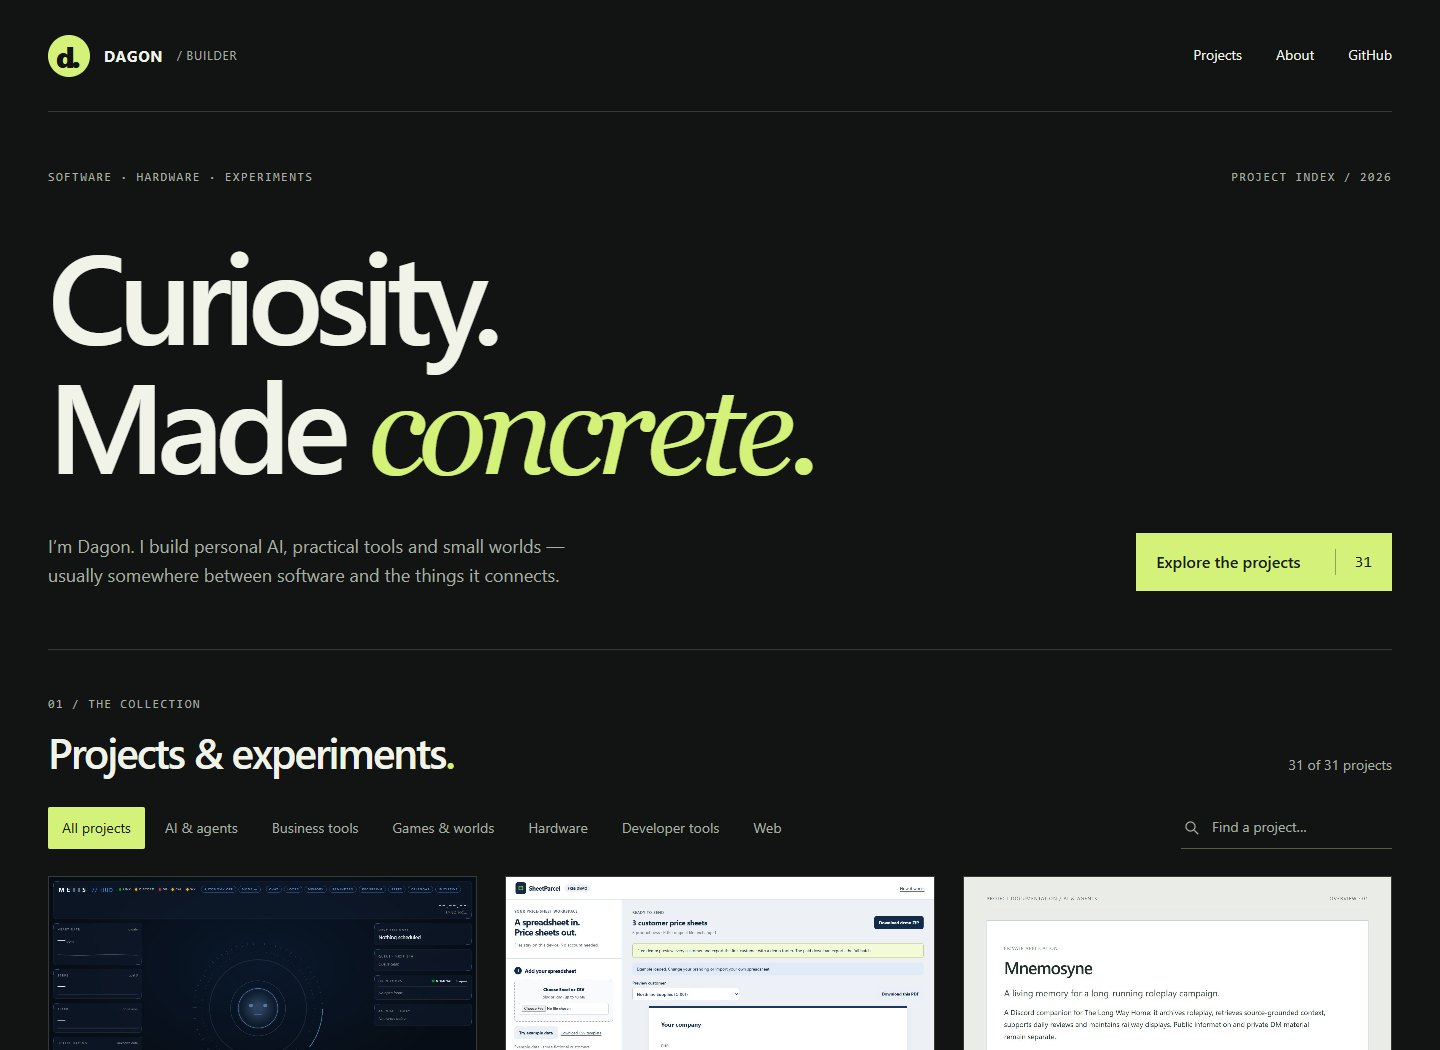
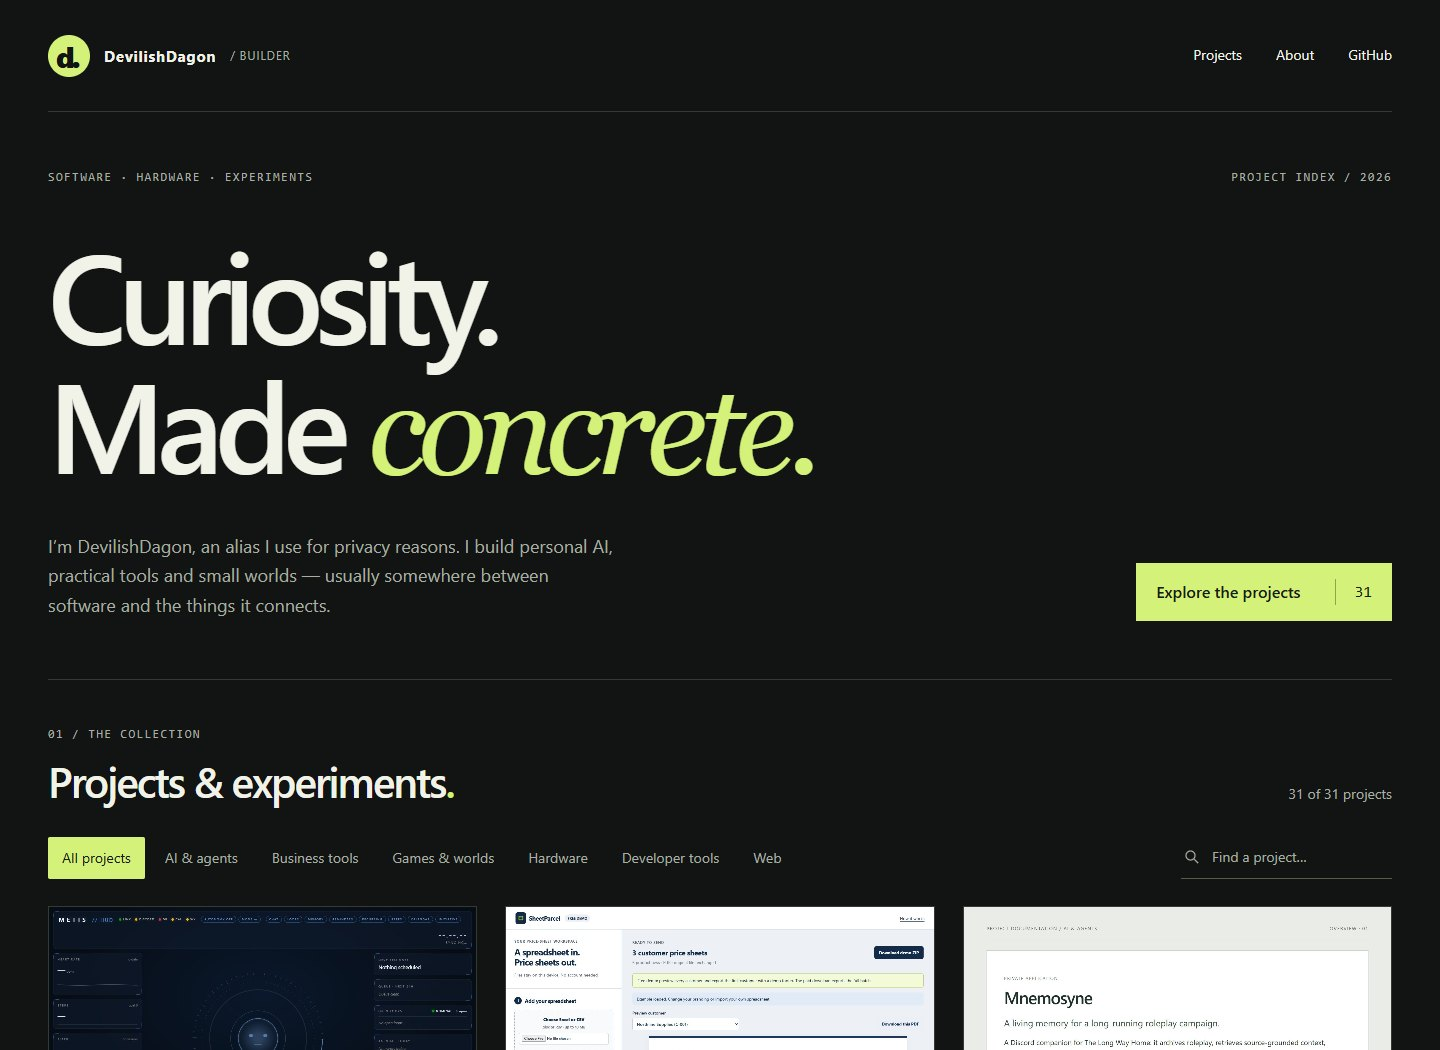
Use DevilishDagon alias and explain privacy choice

diff --git a/index.html b/index.html
@@ -4,11 +4,11 @@
   <meta charset="utf-8">
   <meta name="viewport" content="width=device-width, initial-scale=1">
   <meta name="theme-color" content="#111412">
-  <meta name="description" content="Dagon's project portfolio: personal AI, practical software, industrial automation, hardware and games. Explore descriptions and project captures.">
-  <meta property="og:title" content="Dagon — Projects & experiments">
-  <meta property="og:description" content="A collection of software, systems and things built out of curiosity.">
+  <meta name="description" content="DevilishDagon's project portfolio: personal AI, practical software, industrial automation, hardware and games. DevilishDagon is an alias used for privacy reasons.">
+  <meta property="og:title" content="DevilishDagon — Projects & experiments">
+  <meta property="og:description" content="Software, systems and things built out of curiosity by DevilishDagon, an alias used for privacy reasons.">
   <meta property="og:type" content="website">
-  <title>Dagon — Projects & experiments</title>
+  <title>DevilishDagon — Projects & experiments</title>
   <link rel="icon" type="image/svg+xml" href="assets/favicon.svg">
   <link rel="stylesheet" href="style.css">
   <script src="app.js" defer></script>
@@ -16,14 +16,14 @@
 <body>
   <a class="skip" href="#projects">Skip to projects</a>
   <header class="site-header shell">
-    <a class="wordmark" href="#top" aria-label="Dagon home"><span class="mark" aria-hidden="true">d.</span> DAGON<span class="wordmark-note"> / BUILDER</span></a>
+    <a class="wordmark" href="#top" aria-label="DevilishDagon home"><span class="mark" aria-hidden="true">d.</span> DevilishDagon<span class="wordmark-note"> / BUILDER</span></a>
     <nav aria-label="Main navigation"><a href="#projects">Projects</a><a href="#about">About</a><a href="https://github.com/DevilishDagon">GitHub</a></nav>
   </header>
   <main id="top">
     <section class="hero shell" aria-labelledby="intro-title">
       <div class="eyebrow"><span>SOFTWARE · HARDWARE · EXPERIMENTS</span><span class="edition">PROJECT INDEX / 2026</span></div>
       <h1 id="intro-title">Curiosity.<br>Made <em>concrete.</em></h1>
-      <div class="hero-bottom"><p>I’m Dagon. I build personal AI, practical tools and small worlds — usually somewhere between software and the things it connects.</p><a class="primary-link" href="#projects">Explore the projects <span id="hero-count"></span></a></div>
+      <div class="hero-bottom"><p>I’m DevilishDagon, an alias I use for privacy reasons. I build personal AI, practical tools and small worlds — usually somewhere between software and the things it connects.</p><a class="primary-link" href="#projects">Explore the projects <span id="hero-count"></span></a></div>
     </section>
     <section class="work-section shell" id="projects" aria-labelledby="work-title">
       <div class="section-heading"><div><span class="eyebrow">01 / THE COLLECTION</span><h2 id="work-title">Projects & experiments<span class="accent">.</span></h2></div><span id="result-count" role="status" aria-live="polite"></span></div>
@@ -36,7 +36,7 @@
     </section>
     <section class="about shell" id="about" aria-labelledby="about-title"><div><span class="eyebrow">02 / BEHIND THE PROJECTS</span><h2 id="about-title">From an idea<br>to something useful.</h2></div><div class="about-copy"><p>My work connects software, automation and hardware. Some projects simplify everyday work. Others explore what a personal assistant, a game, or a connected device could become.</p><p>This collection includes applications, prototypes, shared libraries and earlier experiments. Private projects are shown through safe summaries and captures.</p><div class="skills"><span>Python</span><span>JavaScript</span><span>SwiftUI</span><span>Kotlin</span><span>Microcontrollers</span><span>Automation</span></div><a class="contact-link" href="mailto:koktim2003@gmail.com">Let’s talk about a project</a></div></section>
   </main>
-  <footer class="shell"><span>DAGON / DEVILISHDAGON</span><span>Built with curiosity. Updated October 2026.</span><a href="#top">Back to top</a></footer>
+  <footer class="shell"><span>DevilishDagon</span><span>Built with curiosity. Updated October 2026.</span><a href="#top">Back to top</a></footer>
   <dialog id="project-dialog" aria-labelledby="dialog-title"><div class="dialog-top"><span class="eyebrow" id="dialog-category"></span><button class="close" id="close-dialog" aria-label="Close project details">Close <span aria-hidden="true">×</span></button></div><div id="dialog-content"></div></dialog>
 </body>
 </html>

diff --git a/style.css b/style.css
@@ -3,4 +3,5 @@
 @media(min-width:1350px){.project-grid{gap:44px 28px}}
 @media(max-width:1000px){.shell{width:calc(100% - 54px)}.project-grid{grid-template-columns:repeat(2,minmax(0,1fr))}.hero-bottom p{max-width:460px}.hero-bottom{align-items:flex-start}.primary-link{gap:14px}.about{gap:45px}.about h2{font-size:40px}.edition{display:none}}
 @media(max-width:650px){.shell{width:calc(100% - 36px)}.site-header{height:86px}.site-header nav{gap:20px}.wordmark-note{display:none}.wordmark{font-size:13px;gap:9px}.mark{height:34px;width:34px;font-size:24px;line-height:34px}.hero{padding-block:36px 39px}.hero>.eyebrow{font-size:10px;letter-spacing:.09em}h1{font-size:clamp(62px,13vw,85px);margin:31px 0 27px}.hero-bottom{display:block}.hero-bottom p{font-size:16px}.primary-link{display:inline-flex;margin-top:26px;padding:13px 17px;font-size:14px;gap:28px}.section-heading{display:block}.section-heading h2{font-size:31px}#result-count{display:block;margin-top:14px}.toolbar{margin-block:20px 24px;gap:16px}.filters{gap:4px}.filters button{padding:8px 9px;font-size:13px}.search{width:100%}.search input{width:100%}.project-grid{grid-template-columns:1fr;gap:34px}.project-image{aspect-ratio:1.5}.project-card h3{font-size:24px}.project-card p{font-size:16px}.work-section{padding-bottom:45px}.about{display:block;padding-block:42px}.about h2{font-size:40px;margin:17px 0 28px}.about-copy p{font-size:16px}footer{flex-direction:column;align-items:flex-start;gap:12px;padding-block:25px}dialog{padding:19px;max-height:94vh;width:calc(100% - 16px)}#dialog-title{font-size:34px}.dialog-description{font-size:16px}.detail-grid,.gallery{grid-template-columns:1fr}.gallery img{height:auto}.dialog-top .eyebrow{font-size:10px}.capture-note{margin-top:30px}}
+@media(max-width:650px){.site-header{height:auto;padding-block:18px;flex-wrap:wrap;row-gap:16px}.site-header nav{width:100%;justify-content:space-between}}
 @media(prefers-reduced-motion:reduce){html{scroll-behavior:auto}.project-image img{transition:none}}

diff --git a/README.md b/README.md
@@ -1,6 +1,8 @@
-# Dagon — Projects & experiments
+# DevilishDagon — Projects & experiments
 
 A portfolio of personal AI, practical software, industrial automation, hardware and games.
+
+DevilishDagon is an alias I use for privacy reasons.
 
 **[Explore the portfolio](https://devilishdagon.github.io/portfolio/)** · [GitHub profile](https://github.com/DevilishDagon)
 
@@ -508,7 +510,7 @@ A static portfolio collecting software, hardware and automation projects in one 
 
 ## About
 
-I’m Dagon. I build projects across software, automation and hardware, from personal assistants to practical work tools and small interactive worlds.
+I’m DevilishDagon, an alias I use for privacy reasons. I build projects across software, automation and hardware, from personal assistants to practical work tools and small interactive worlds.
 
 [Contact by email](mailto:koktim2003@gmail.com) · [GitHub](https://github.com/DevilishDagon)
 
